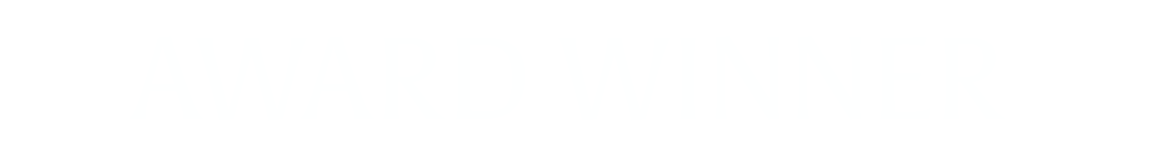
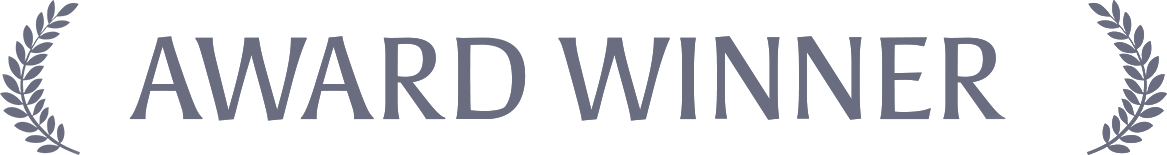
make Nicole changes

Changed region(s): [[0.0925, 0.2323, 0.8638, 0.7742], [0.9254, 0.0, 1.0, 1.0], [0.0, 0.0, 0.0925, 1.0]]

diff --git a/src/sections/HomeNews.jsx b/src/sections/HomeNews.jsx
@@ -63,29 +63,33 @@ const StyledHomeNews = styled.div`
       padding-top: 5%;
     }
 
-    .bottom-content {
-      position: absolute;
-      z-index: 100;
-      bottom: 5%;
-      max-width: 90%;
-      left: 5%;
-      display: flex;
-      flex-direction: column;
-      align-items: center;
-
-      .bottom-image {
-        max-width: 50%;
-      }
-      .bottom-image--award {
-        max-width: 75%;
-      }
-    }
-
     .bg-image {
       position: absolute;
       width: 100%;
       height: 100%;
       top: 0;
+    }
+  }
+
+  .square-bottom {
+    flex-grow: 1;
+  }
+
+  .bottom-content {
+    position: relative;
+    z-index: 100;
+    bottom: 5%;
+    max-width: 90%;
+    left: 5%;
+    display: flex;
+    flex-direction: column;
+    align-items: center;
+
+    .bottom-image {
+      max-width: 50%;
+    }
+    .bottom-image--award {
+      max-width: 75%;
     }
   }
 `;
@@ -99,16 +103,19 @@ function HomeNews() {
           <div className="square-bottom">
             <h3>Women of the Movement Best Limited Series</h3>
           </div>
+          <div className="bottom-content">
+            <StaticImage className="bottom-image" src="../images/gracies.png" alt="The Gracies logo" />
+            <StaticImage
+              className="bottom-image bottom-image--award"
+              src="../images/award.png"
+              alt="Award winner logo"
+            />
+          </div>
         </div>
       </Square>
       <Square className="award-winner" backgroundColor="var(--color-primary)">
         <h2 className="square-title">FEATURING</h2>
-        <div className="bottom-content">
-          <StaticImage className="bottom-image" src="../images/gracies.png" alt="The Gracies logo" />"
-          <StaticImage className="bottom-image bottom-image--award" src="../images/award.png" alt="Award winner logo" />
-          "
-        </div>
-        <StaticImage className="bg-image" quality={100} src="../images/award-winner.png" alt="Award Winner" />
+        <StaticImage className="bg-image" quality={100} src="../images/woman-of-the-movement.png" alt="Award Winner" />
       </Square>
       <Square>
         <FeaturedSquare />

diff --git a/src/sections/FeaturedNews.jsx b/src/sections/FeaturedNews.jsx
@@ -113,15 +113,15 @@ const FeaturedNews = () => {
       <SectionTitle>PRESS</SectionTitle>
       <div className="bottom-container">
         <div className="news-container">
-          {homeNewsData.map(({ id, data: { title, articleDate } }, i) => {
+          {homeNewsData.map(({ id, data: { title, articleDate, externalUrl } }, i) => {
             return (
-              <React.Fragment key={id}>
+              <a key={id} href={externalUrl}>
                 <article className="single-new">
                   <span className="date">{articleDate}</span>
                   <p className="excerpt">{title}</p>
                 </article>
                 {!(homeNewsData.length === i + 1) && <hr />}
-              </React.Fragment>
+              </a>
             );
           })}
           <Button alternative backgroundColor="rgba(255, 255, 255, 0.25)" uppercase>
@@ -140,6 +140,7 @@ const query = graphql`
         data {
           articleDate(formatString: "MMMM DD")
           title
+          externalUrl
         }
         id
       }
